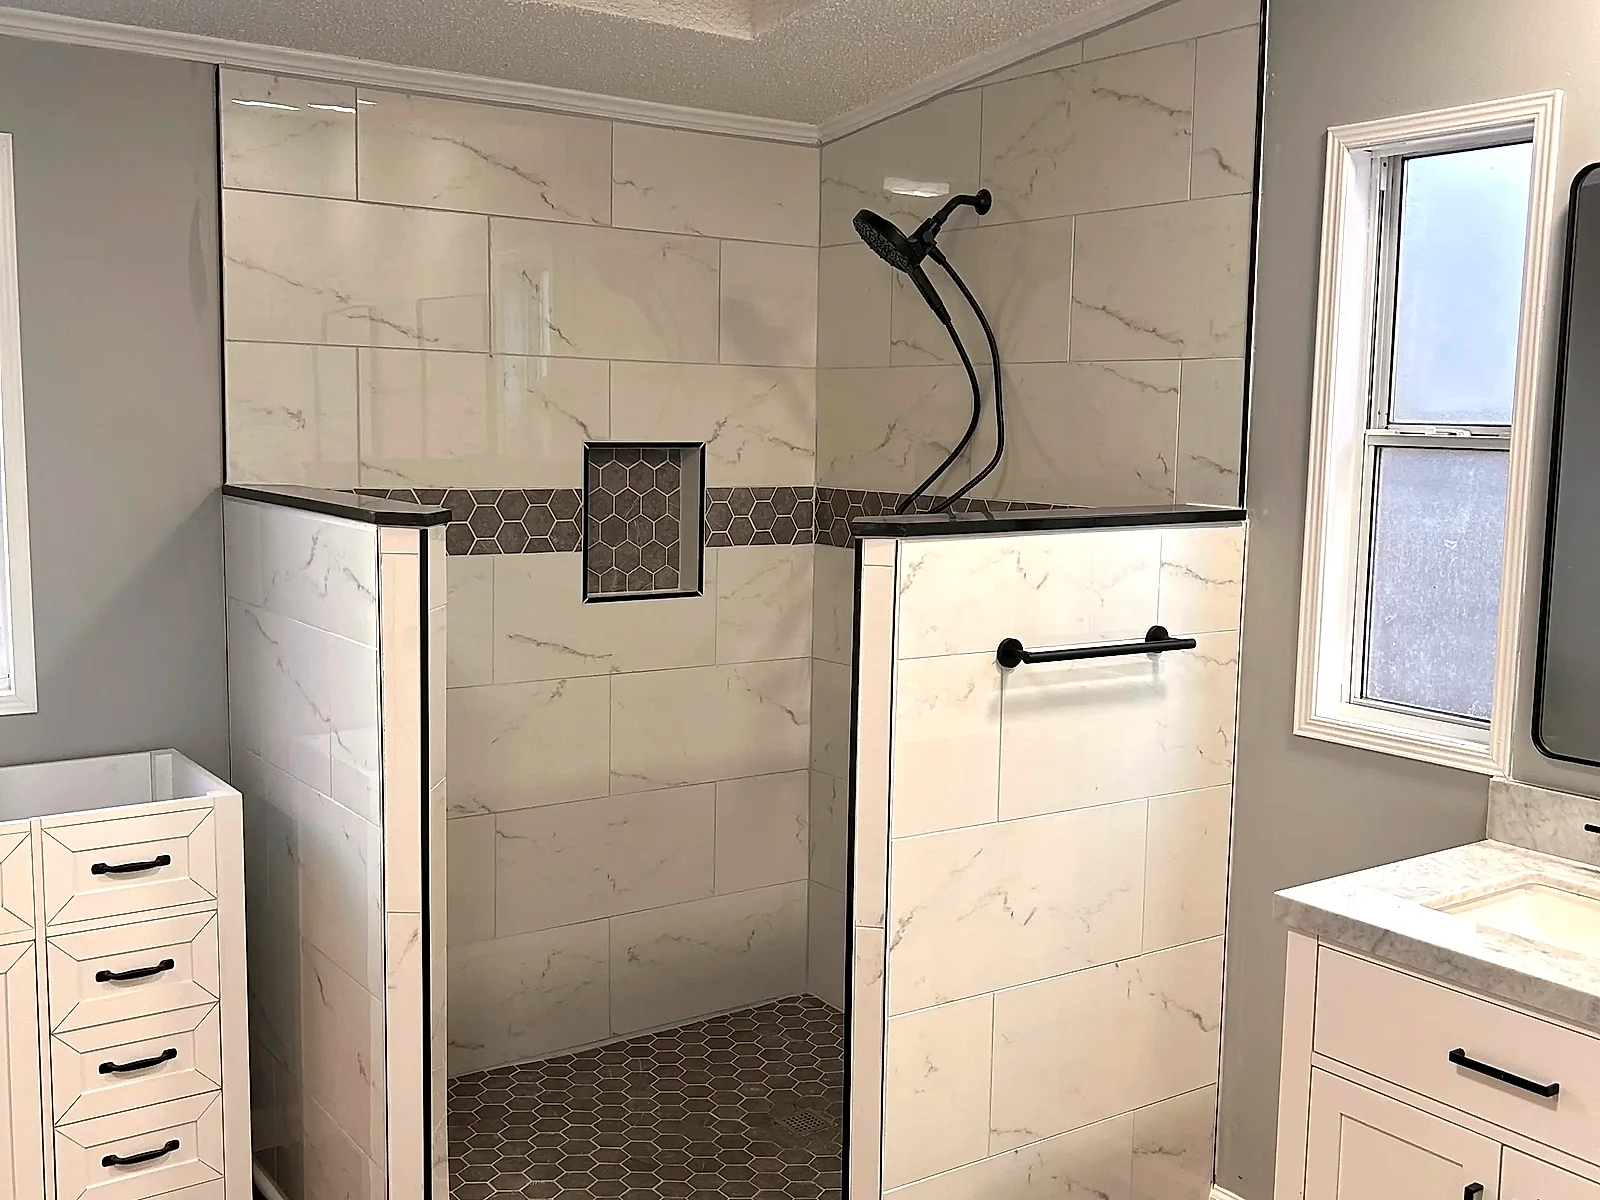
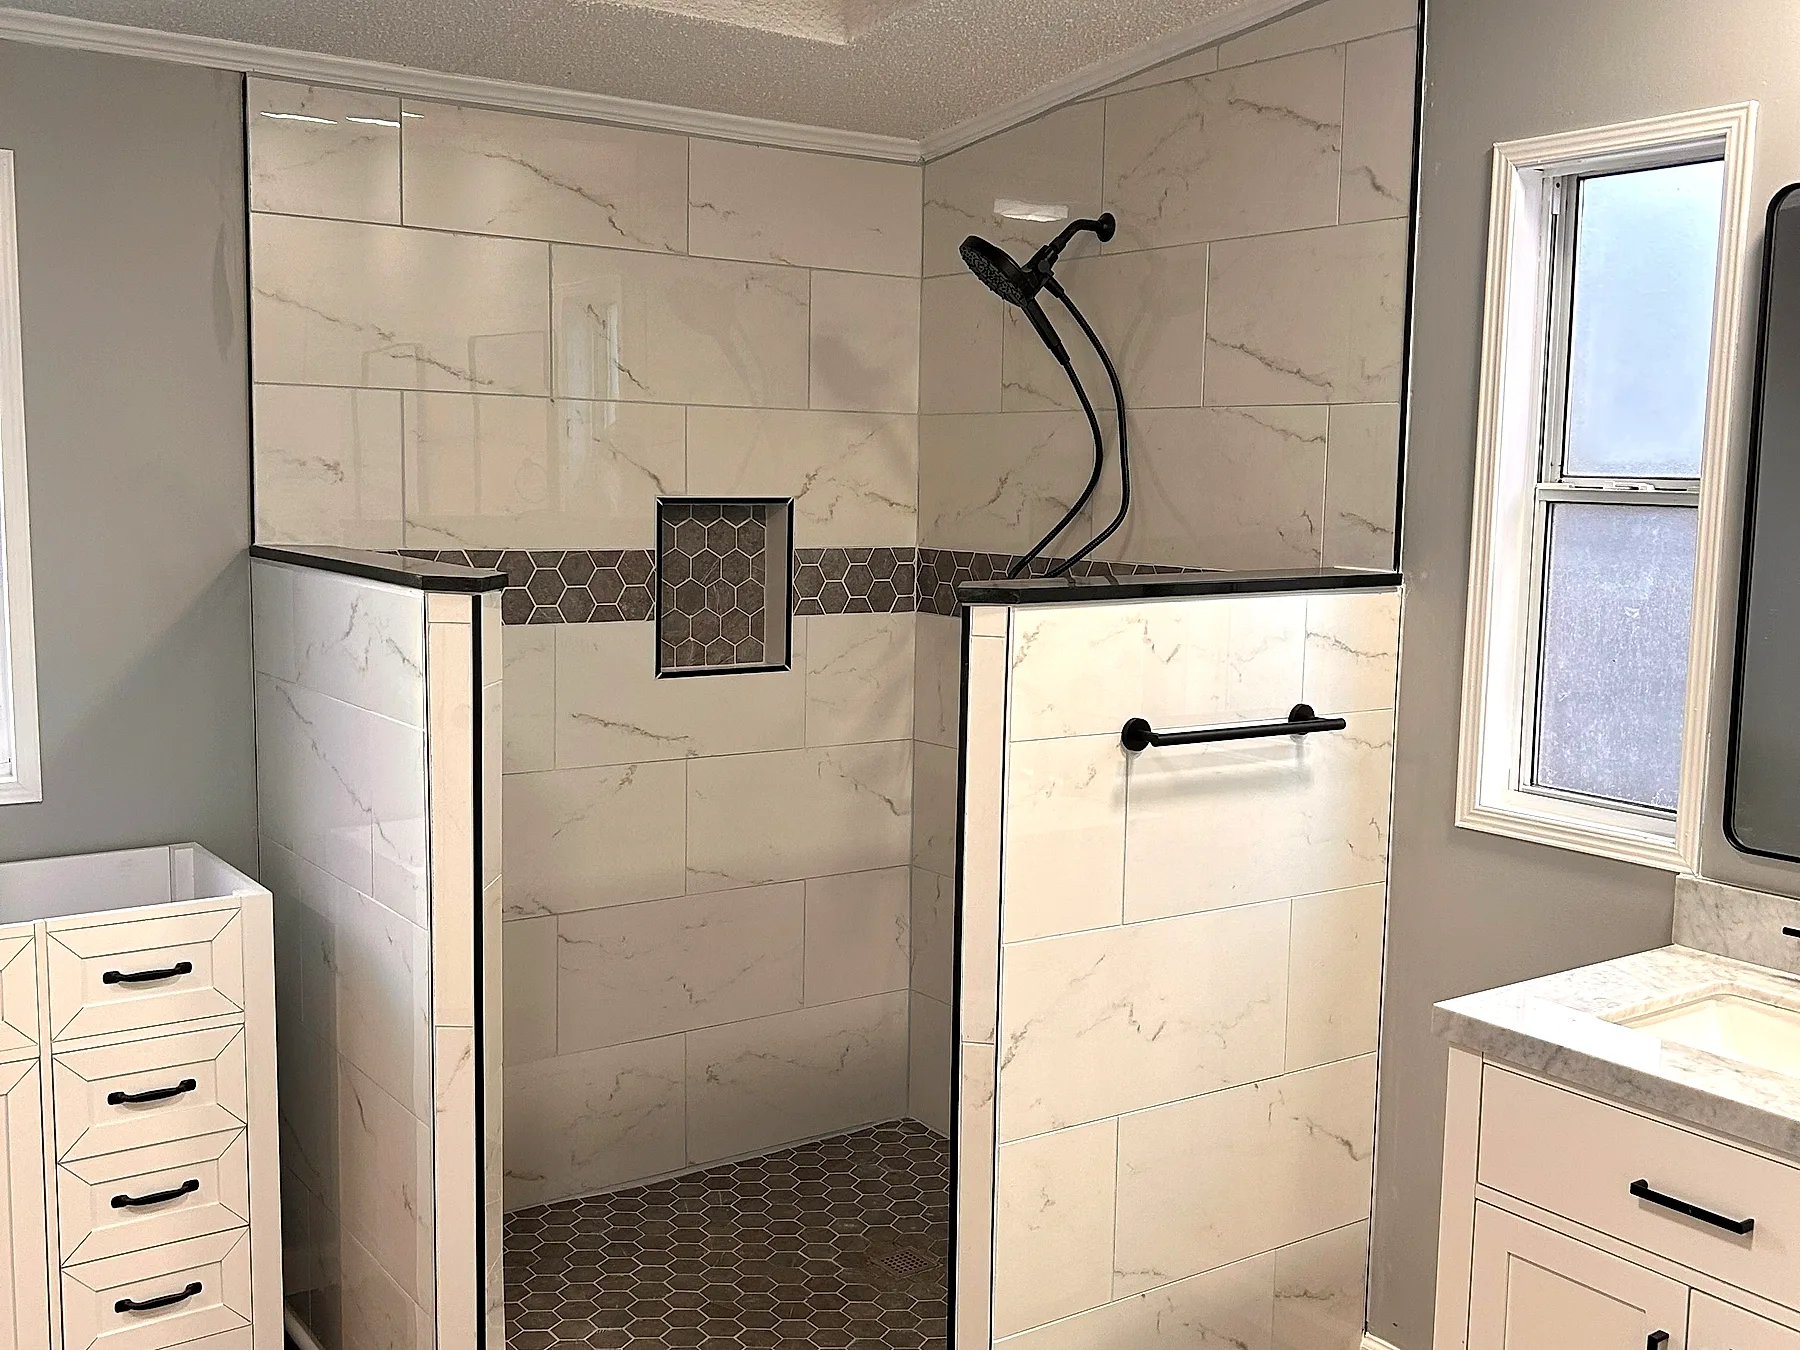
Simplify remodeling gallery to one larger bath-shower conversion photo
Replace the two small side-by-side thumbnails with a single larger
image, re-cropped from the original camera file for better quality.

diff --git a/burchcontracting-dev/services.html b/burchcontracting-dev/services.html
@@ -520,10 +520,7 @@
               </div>
               <div class="space-y-3">
                 <img src="/images/kitchen-remodeling-sc.webp" alt="Complete kitchen remodel with custom cabinets and granite countertops in Upstate South Carolina" width="640" height="480" loading="lazy" class="rounded-2xl w-full h-56 lg:h-64 object-cover bg-slate-200" />
-                <div class="grid grid-cols-2 gap-3">
-                  <img src="/images/bath-shower-conversion-woodruff-sc-1.webp" alt="Tub-to-shower conversion bathroom remodeling with tile surround in Woodruff South Carolina" width="320" height="240" loading="lazy" class="rounded-2xl w-full h-40 lg:h-44 object-cover bg-slate-200" />
-                  <img src="/images/bath-shower-conversion-woodruff-sc-2.webp" alt="Custom walk-in shower with glass door and tile walls bathroom renovation in Woodruff SC" width="320" height="240" loading="lazy" class="rounded-2xl w-full h-40 lg:h-44 object-cover bg-slate-200" />
-                </div>
+                <img src="/images/bath-shower-conversion-woodruff-sc-1.webp" alt="Tub-to-shower conversion bathroom remodeling with tile surround in Woodruff South Carolina" width="1800" height="1350" loading="lazy" class="rounded-2xl w-full h-64 lg:h-72 object-cover bg-slate-200" />
                 <img src="/images/finished-basement.webp" alt="Finished basement renovation with living room and home theater in Upstate South Carolina" width="640" height="360" loading="lazy" class="rounded-2xl w-full h-44 lg:h-48 object-cover bg-slate-200" />
               </div>
             </article>